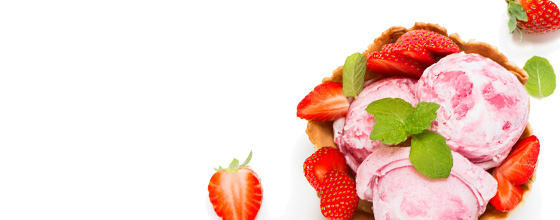
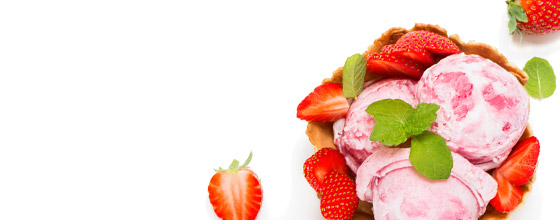
Change background images (removed corners), change waffle background to pattern.

diff --git a/css/style.css b/css/style.css
@@ -360,9 +360,8 @@ a {
   color: #323232;
 
   background-color: #ebdec4;
-  background-image: url("../img/waffle-bg.jpg");
-  background-repeat: no-repeat;
-  background-size: cover;
+  background-image: url("../img/waffle-pt.jpg");
+  background-repeat: repeat;
 }
 
 .advantages__title {
